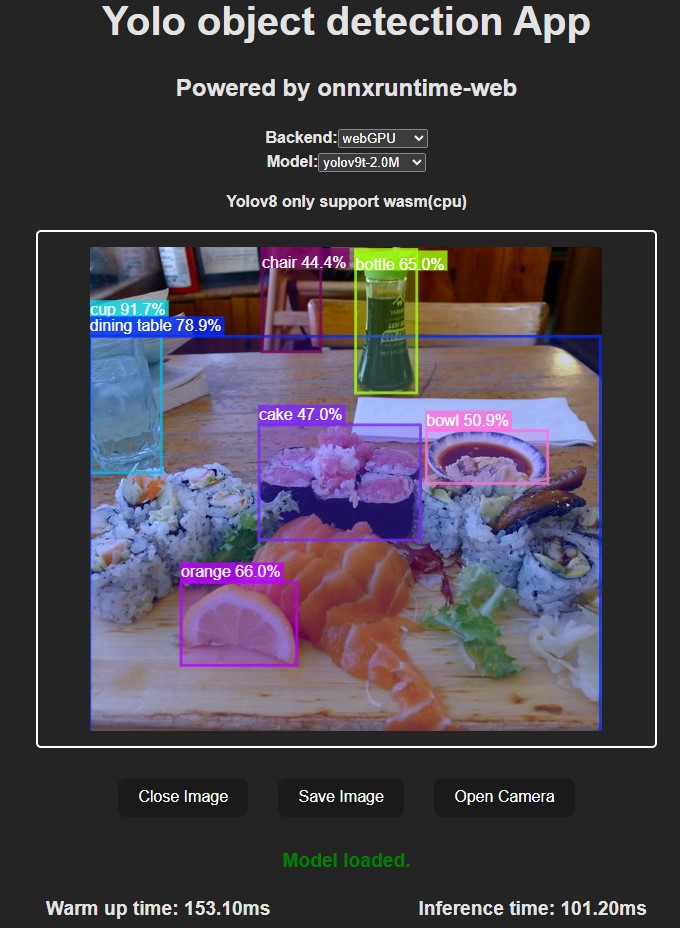
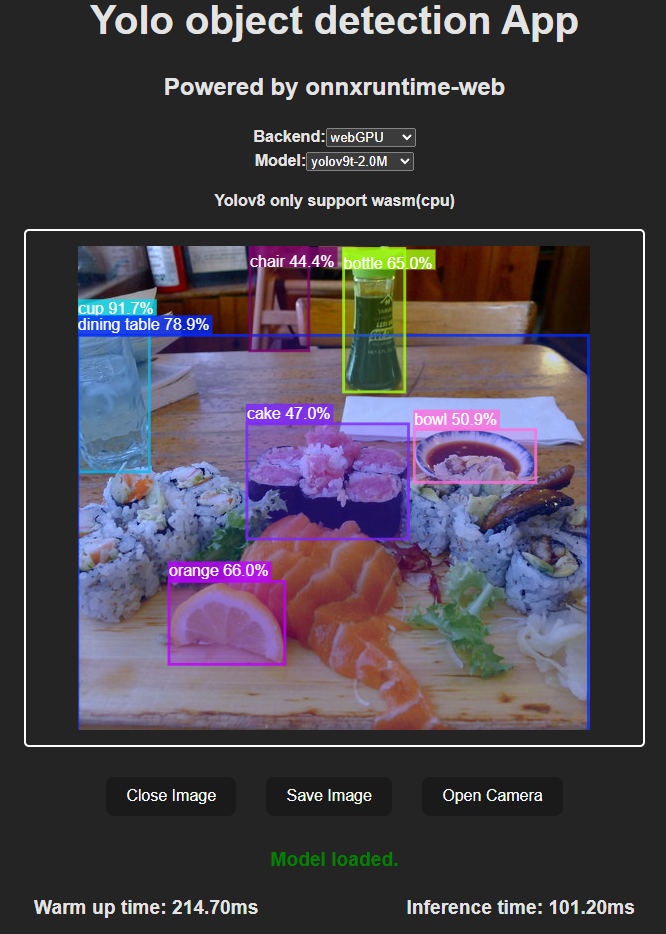
Update README.md

diff --git a/README.md b/README.md
@@ -1,6 +1,6 @@
 # yolo object detect onnxruntime-web
 
-<img src="https://github.com/nomi30701/yolo-object-detection-onnxruntime-web/blob/main/preview.png">
+<img src="https://github.com/nomi30701/yolo-object-detection-onnxruntime-web/blob/main/preview.png" height=70% width=70%>
 
 This is yolo model object detect web app, powered by ONNXRUNTIME-WEB.
 
